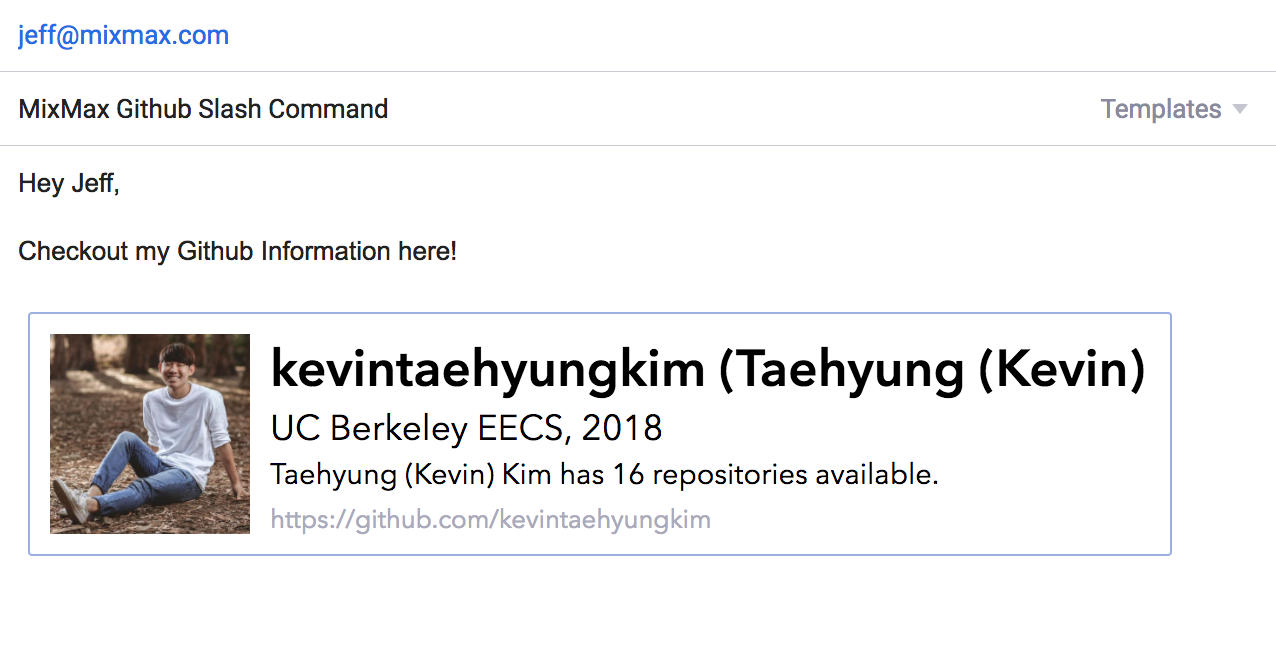
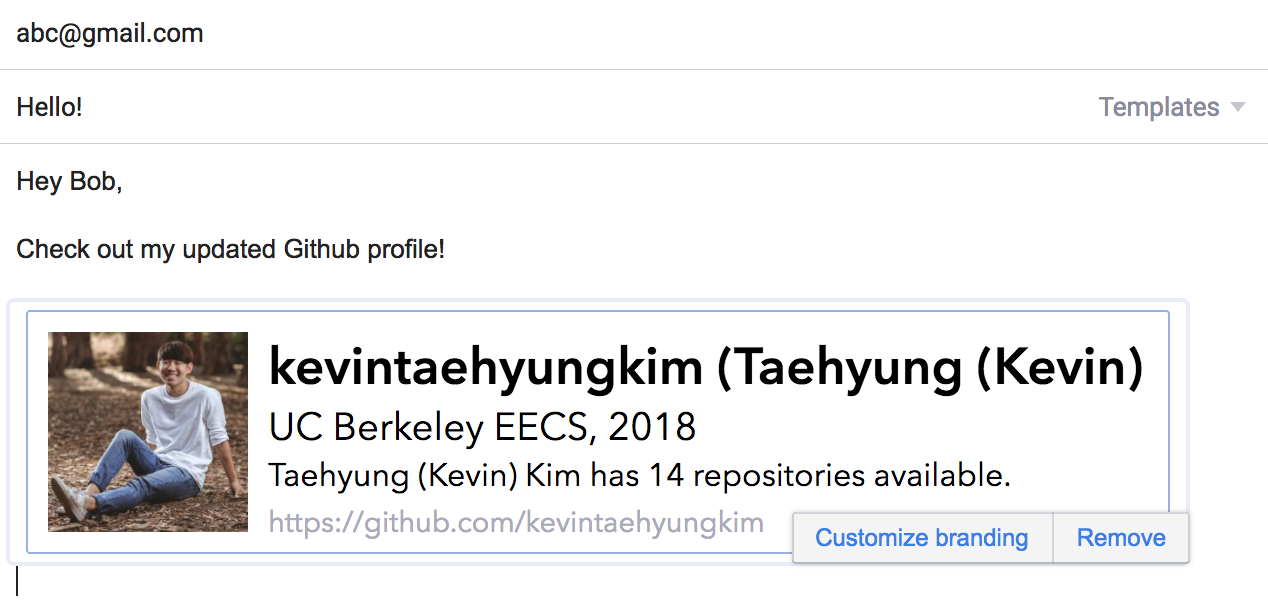
screenshot updates

diff --git a/api/resolver.js b/api/resolver.js
@@ -35,7 +35,7 @@ function handleUser(term, req, res) {
   }
 
   var html =
-  `<a style="text-decoration:none; color:inherit; display:block" >
+  `<a style="text-decoration:none; color:inherit; display:block" href="${user.html_url}"">
     <div style=
     "height: 100px;
     width:550px; 
@@ -60,16 +60,16 @@ function handleUser(term, req, res) {
           ${user.login} (${user.name})
         </div>
 
-        <div style="width:100%; font-size: 1.1em;">
+        <div style="width:100%; font-size: 1.2em;">
           ${user.bio}
         </div>
         
         <div style="width:100%;white-space:nowrap;overflow:hidden;text-overflow:ellipsis">
-          <font style="font-size: 0.9em; font-weight:normal">
+          <font style="font-size: 1.0em; font-weight:normal">
             ${user.name} has ${user.public_repos} repositories available.
           </font>
         </div>
-        <div style="font-family:/gitAvenir Next, Segoe UI, Calibri, Arial, sans-serif; font-size: 0.8em; font-weight:normal; color:#aab; margin-top:3px">
+        <div style="font-family: Avenir Next, Segoe UI, Calibri, Arial, sans-serif; font-size: 0.9em; font-weight:normal; color:#aab; margin-top:3px">
           ${user.html_url}
         </div>
       </div>
